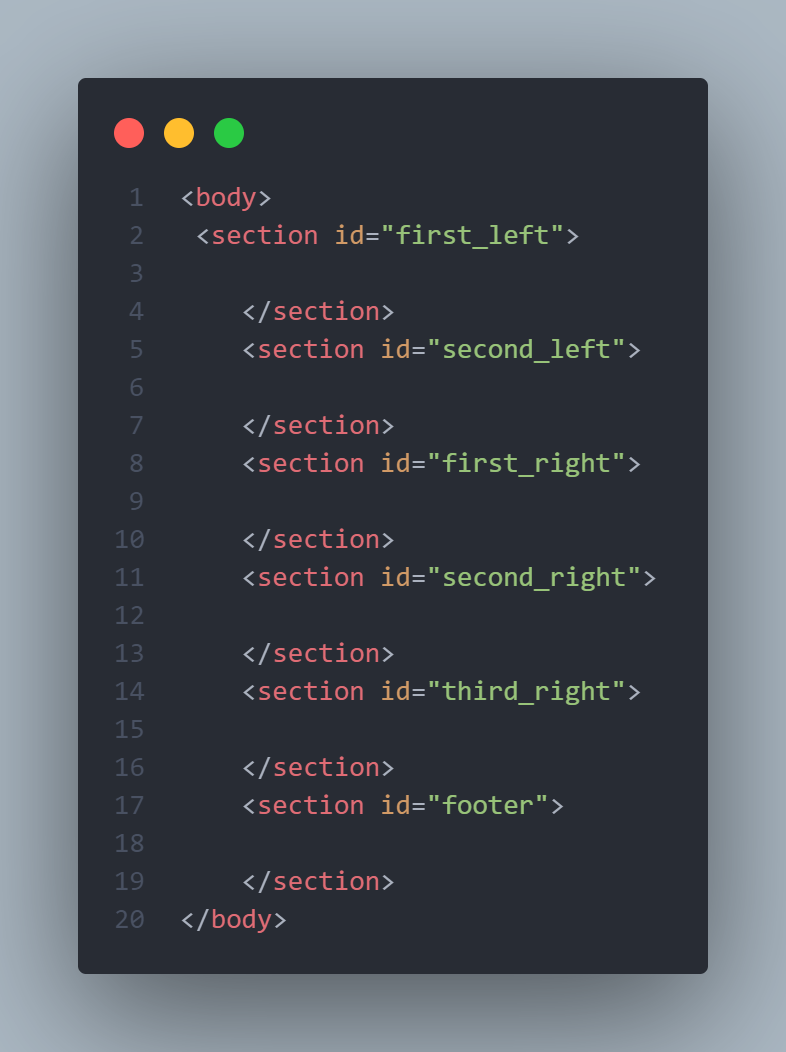
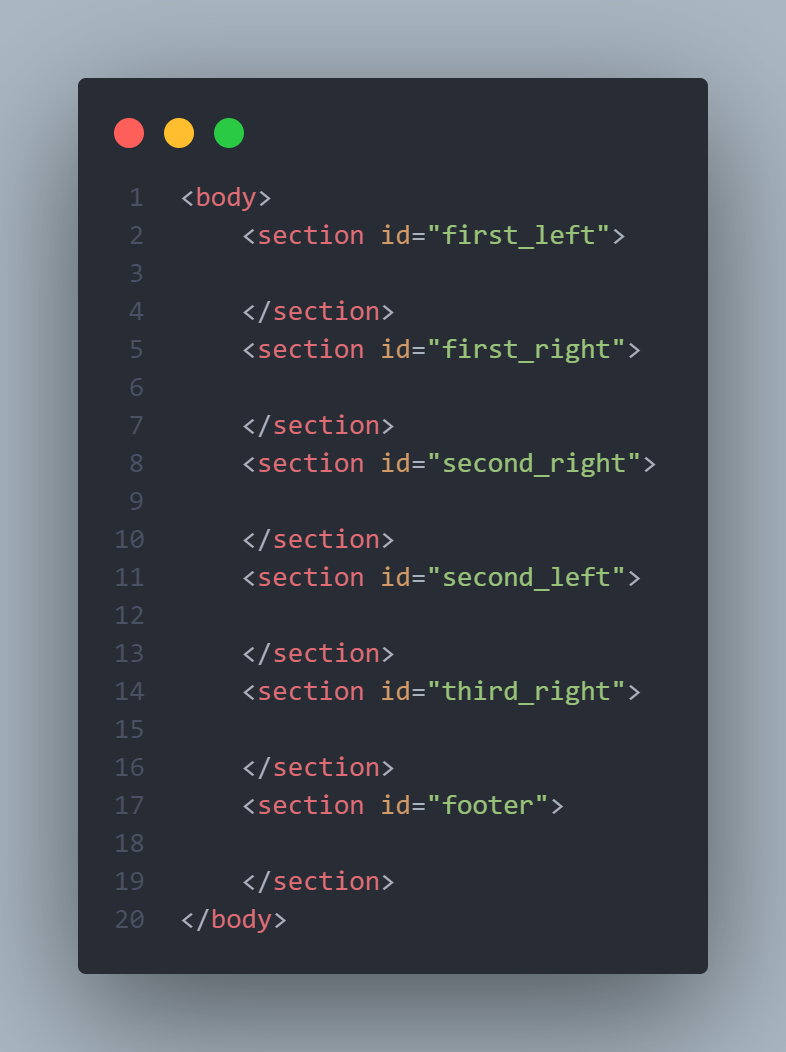
0.4.9

diff --git a/egzaminy/salon_fryzjerski/fryzura.html b/egzaminy/salon_fryzjerski/fryzura.html
@@ -11,15 +11,6 @@
        <a href="index.html"><h2>SALON FRYZJERSKI</h2></a>
        <img src="obraz2.jpg" alt="Czesanie">
     </section>
-    <section id="second_left">
-        <h3>Dziś promocja na strzyżenie włosów</h3>
-        <label><input type="radio" name="strzyzenie" id="krotkie">Krótkie</label>
-        <label><input type="radio" name="strzyzenie" id="srednie">Średnie</label>
-        <label><input type="radio" name="strzyzenie" id="poldlugie">Półdługie</label>
-        <label><input type="radio" name="strzyzenie" id="dlugie">Długie</label>
-        <button type="submit" onclick="oblicz()">Odkryj promocję</button>
-        <p id="text"></p>
-    </section>
     <section id="first_right">
         <h2>MENU</h2>
     </section>
@@ -35,6 +26,15 @@
             <li>Czesanie</li>
             <li>Koloryzacja</li>
         </ol>
+    </section>
+    <section id="second_left">
+        <h3>Dziś promocja na strzyżenie włosów</h3>
+        <label><input type="radio" name="strzyzenie" id="krotkie">Krótkie</label><br>
+        <label><input type="radio" name="strzyzenie" id="srednie">Średnie</label><br>
+        <label><input type="radio" name="strzyzenie" id="poldlugie">Półdługie</label><br>
+        <label><input type="radio" name="strzyzenie" id="dlugie">Długie</label><br>
+        <button type="submit" onclick="oblicz()">Odkryj promocję</button>
+        <p id="text"></p>
     </section>
     <section id="third_right">
         <img src="obraz1.jpg" alt="Fryzjer">

diff --git a/rozwiazanie.html b/rozwiazanie.html
@@ -6,12 +6,9 @@
     <link rel="stylesheet" href="styl2.css" type="text/css">
 </head>
 <body>
- <section id="first_left">
+    <section id="first_left">
        <a href="index.html"><h2>SALON FRYZJERSKI</h2></a>
        <img src="obraz2.jpg" alt="Czesanie">
-    </section>
-    <section id="second_left">
-
     </section>
     <section id="first_right">
         <h2>MENU</h2>
@@ -29,11 +26,30 @@
             <li>Koloryzacja</li>
         </ol>
     </section>
+    <section id="second_left">
+        
+    </section>
     <section id="third_right">
         <img src="obraz1.jpg" alt="Fryzjer">
     </section>
     <section id="footer">
         <p>Autor: 00000000000</p>
     </section>
+    <script>
+        function oblicz(){
+            if(document.getElementById('krotkie').checked){
+                document.getElementById('text').innerHTML = `Cena strzyżenia: 25`;
+            }
+            if(document.getElementById('srednie').checked){
+                document.getElementById('text').innerHTML = `Cena strzyżenia: 30`;
+            }
+            if(document.getElementById('poldlugie').checked){
+                document.getElementById('text').innerHTML = `Cena strzyżenia: 40`;
+            }
+            if(document.getElementById('dlugie').checked){
+                document.getElementById('text').innerHTML = `Cena strzyżenia: 50`;
+            }
+        }
+    </script>
 </body>
 </html>

diff --git a/egzaminy/salon_fryzjerski/styl2.css b/egzaminy/salon_fryzjerski/styl2.css
@@ -7,17 +7,8 @@ body {
     width:70%;
     background-color: Snow;
     text-align: center;
-    display: block;
     float: left;
-}
-
-#second_left{
-    height:400px;
-    width:70%;
-    background-color: Snow;
-    font-size:150%;
     display: block;
-    float: left;
 }
 
 #first_right{
@@ -26,17 +17,25 @@ body {
     background-color: steelblue;
     color:white;
     text-align: center;
+    float: right;
     display: block;
-    float: left;
 }
 
+#second_left{
+    height:400px;
+    width:70%;
+    background-color: Snow;
+    font-size:150%;
+    float: left;
+    display: block;
+}
 #second_right{
     height:350px;
     width:30%;
     background-color: steelblue;
     color:white;
+    float: right;
     display: block;
-    float: left;
 }
 
 #third_right{
@@ -44,15 +43,14 @@ body {
     width:30%;
     background-color: snow;
     text-align: center;
+    float: right;
     display: block;
-    float: left;
 }
 
 #footer{
     background-color: steelblue;
     color:white;
     display: block;
-    float: left;
 }
 
 h2{

diff --git a/egzaminy/salon_fryzjerski/index.html b/egzaminy/salon_fryzjerski/index.html
@@ -11,10 +11,6 @@
        <a href="index.html"><h2>SALON FRYZJERSKI</h2></a>
        <img src="obraz2.jpg" alt="Czesanie">
     </section>
-    <section id="second_left">
-        <h5>Kontakt: 111 222 333</h5>
-        <p>Witaj! Miło nam, że odwiedziłeś nasz salon.<br> Zapoznaj się z ofertą i sprawdź promocje!</p>
-    </section>
     <section id="first_right">
         <h2>MENU</h2>
     </section>
@@ -30,6 +26,10 @@
             <li>Czesanie</li>
             <li>Koloryzacja</li>
         </ol>
+    </section>
+    <section id="second_left">
+        <h5>Kontakt: 111 222 333</h5>
+        <p>Witaj! Miło nam, że odwiedziłeś nasz salon.<br> Zapoznaj się z ofertą i sprawdź promocje!</p>
     </section>
     <section id="third_right">
         <img src="obraz1.jpg" alt="Fryzjer">

diff --git a/solutions/salon_fryzjerski_rozwiazanie.html b/solutions/salon_fryzjerski_rozwiazanie.html
@@ -80,6 +80,9 @@
     <h2>Ostatnim elementem budowy strony jest dodanie skryptu.</h2>
     <p>Skrypt musi uruchamiać się po wciśnięciu przycisku na stronie fryzura.html</p>
     <img src="salon_fryzjerski_zdjecia/20.png" alt="uruchamianie_skryptu"><br>
-    <p></p>
+    <p>Skrypt musi podać cenę strzyżenia w zależności od wyboru dokonanego w polu radio</p>
+    <img src="salon_fryzjerski_zdjecia/21.png" alt="sprawdzenie_wyboru_w_polu_radio"><br>
+    <p>Skrypt wyświetla wynik działania pod przyciskiem według wzoru: "Cena strzyżenia: wartość".</p>
+    <img src="salon_fryzjerski_zdjecia/22.png" alt="wyswietlenie_wyniku"><br>
 </body>
 </html>
